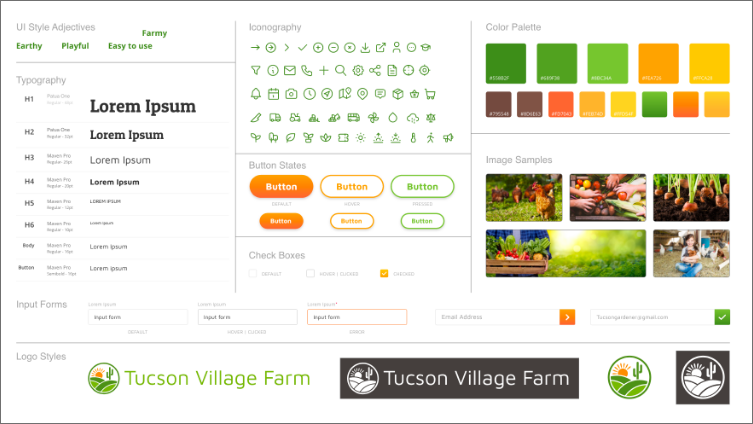
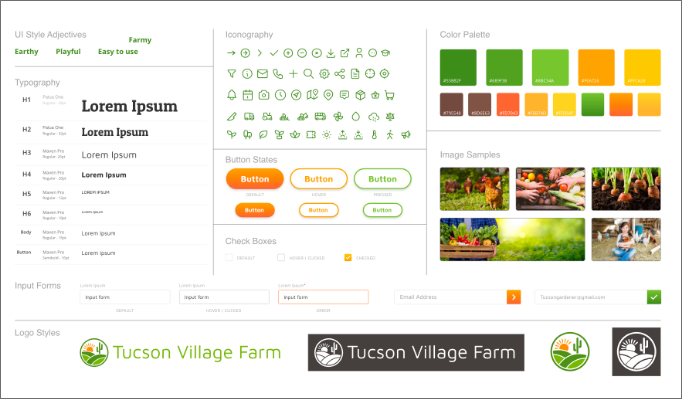
Correcting image sizes
add resume download button

diff --git a/tvf.html b/tvf.html
@@ -59,7 +59,7 @@
     <!-- Affinity Diagram -->
             <div id="persona" class="card">
                 <div class="case-study-image left">
-                    <img src="images/TVF Images_2021-01-11/affinity-map.png" alt="Affinity Diagram" />
+                    <img src="images/TVF Images_2021-01-11/affinity-map@3x.png" alt="Affinity Diagram" />
                 </div>
                 <div class="case-study-text right">
                     <h2>Affinity Diagram</h2>
@@ -72,7 +72,7 @@
     <!-- User Persona --> 
             <div id="journey" class="card">  
                 <div class="case-study-image right">
-                    <img src="images/TVF Images_2021-01-11/user-persona.png" alt="Image of User Persona" />
+                    <img src="images/TVF Images_2021-01-11/user-persona@3x.png" alt="Image of User Persona" />
                 </div>    
                 <div class="case-study-text left">
                     <h2>Persona</h2>
@@ -87,7 +87,7 @@
     <!-- Site Map -->
             <div id="card-sorting" class="card">
                 <div class="case-study-image left">
-                    <img src="images/TVF Images_2021-01-11/tvf-site-map.png" alt="Site Map Image"/>
+                    <img src="images/TVF Images_2021-01-11/tvf-site-map@3x.png" alt="Site Map Image"/>
                 </div>
                 <div class="case-study-text right">
                     <h2>Site Map</h2>
@@ -97,7 +97,7 @@
     <!-- Style Guide --> 
             <div id="wireframes" class="card">  
                 <div class="case-study-image right">
-                    <img src="images/TVF Images_2021-01-11/style-guide.png" alt="Image of Style Guide" />
+                    <img src="images/TVF Images_2021-01-11/style-guide@3x.png" alt="Image of Style Guide" />
                 </div>    
                 <div class="case-study-text left">
                     <h2>Style Guide</h2>
@@ -107,7 +107,7 @@
     <!-- Wireframes --> 
         <div id="wireframes" class="card">  
             <div class="case-study-image left">
-                <img src="images/TVF Images_2021-01-11/tvf-wireframes.png" alt="Wireframes" />
+                <img src="images/TVF Images_2021-01-11/tvf-wireframes@3x.png" alt="Wireframes" />
             </div>    
             <div class="case-study-text right">
                 <h2>Wireframes</h2>
@@ -117,7 +117,7 @@
     <!-- User Testing -->
             <div id="user-testing" class="card">
                 <div class="case-study-image right">
-                    <img src="images/TVF Images_2021-01-11/TVF-testing.png" alt="User Testing Info"/>
+                    <img src="images/TVF Images_2021-01-11/user-testing-2@3x.png" alt="User Testing Info"/>
                 </div>
                 <div class="case-study-text left">
                     <h2>User Testing</h2>
@@ -129,7 +129,7 @@
     <!-- Hi-Fi Prototype -->
             <div id="hi-fi-prototype" class="card">
                 <div class="case-study-image left">
-                    <img src="images/TVF Images_2021-01-11/tvf-prototype.png" alt="TVF Prototype Image" />
+                    <img class="icon" src="images/TVF Images_2021-01-11/tvf-prototype@3x.png" alt="TVF Prototype Image" />
                 </div>
                 <div class="case-study-text right">
                     <h2>Hi-Fi Prototype</h2>
@@ -140,7 +140,7 @@
     <!-- Conclusion --> 
             <div id="conclusion" class="card">  
                 <div class="case-study-image right">
-                    <img src="images/TVF Images_2021-01-11/tvf-logo.png" alt="Fetch Logo" />
+                    <img class="icon" src="images/TVF Images_2021-01-11/tvf-logo.png" alt="TVF Logo" />
                 </div>    
                 <div class="case-study-text left">
                     <h2>Conclusion <br />+ Next Steps</h2>

diff --git a/resume.html b/resume.html
@@ -2,13 +2,12 @@
 <html>
     <head>
         <title>Audra Miller Portfolio</title>
+        <link href="https://cdn.jsdelivr.net/npm/bootstrap@5.0.0-beta1/dist/css/bootstrap.min.css" rel="stylesheet" integrity="sha384-giJF6kkoqNQ00vy+HMDP7azOuL0xtbfIcaT9wjKHr8RbDVddVHyTfAAsrekwKmP1" crossorigin="anonymous">
         <link rel="stylesheet" href="css/style.css">
         <link rel="preconnect" href="https://fonts.gstatic.com">
         <link href="https://fonts.googleapis.com/css2?family=Montserrat&display=swap" rel="stylesheet">
-        <link rel="preconnect" href="https://fonts.gstatic.com">
         <link href="https://fonts.googleapis.com/css2?family=Montserrat:wght@700&display=swap" rel="stylesheet">
         <meta name="viewport" content="width=device-width, initial-scale=1">
-        <link rel="stylesheet" href="https://cdnjs.cloudflare.com/ajax/libs/font-awesome/4.7.0/css/font-awesome.min.css">
         <script src="index.js"></script>
     </head>
     <body>
@@ -36,6 +35,10 @@
         <section class="bodyText">
             <br /> <br />
             <div>
+                <a href="images/Audra-UI-Resume-w.pdf">
+                    <button type="button" class="btn btn-outline-primary"   onclick="document.location='usda.html'">Download Resume</button>
+                    </a>
+                <br /><br /><br />
                 <p>Seasoned graphic designer with recent exposure and 
                     training in UX/UI design from the University of Arizona. 
                     Proficient in Adobe suite of products, Figma, and Mirro. 
@@ -43,7 +46,7 @@
                     through to deliverable. Seeking a UX/UI Designer position.
                 </p>
             </div>
-            <br /><br />
+            <br /><br /><br />
 <!-- Tech Skills -->
             <div>
                 <h2>Technical Skills:</h2>

diff --git a/usda.html b/usda.html
@@ -116,9 +116,9 @@
     <!-- Hi-Fi Prototype -->
             <div id="hi-fi-prototype" class="card">
                 <div class="case-study-image right">
-                    <img src="images/USDA Images_2021-01-11/hi-fi-prototype.png" alt="USDA Prototype Image" />
+                    <img  class="icon" src="images/USDA Images_2021-01-11/hi-fi-prototype.png" alt="USDA Prototype Image" />
                 </div>
-                <div class="case-study-text leftt">
+                <div class="case-study-text left">
                     <h2>Hi-Fi Prototype</h2>
                     <button type="button" class="btn btn-outline-primary" onclick="window.location.href='https://xd.adobe.com/view/a44a522e-5728-4ac9-bf08-8003f87454b1-f119/';">Load Prototype</button>
                 </div>
@@ -127,7 +127,7 @@
     <!-- Conclusion --> 
             <div id="conclusion" class="card">  
                 <div class="case-study-image left">
-                    <img src="images/USDA Images_2021-01-11/logo.png" alt="USDA Logo" />
+                    <img  class="icon"  src="images/USDA Images_2021-01-11/logo.png" alt="USDA Logo" />
                 </div>    
                 <div class="case-study-text right">
                     <h2>Conclusion <br /> + Next Steps</h2>

diff --git a/fetch.html b/fetch.html
@@ -140,7 +140,7 @@
     <!-- Hi-Fi Prototype -->
             <div id="hi-fi-prototype" class="card">
                 <div class="case-study-image left">
-                    <img src="images/Fetch Images_2021-01-11/fetch-hi-fi-prototype.png" alt="Fetch Prototype Image" />
+                    <img  class="icon" src="images/Fetch Images_2021-01-11/fetch-hi-fi-prototype.png" alt="Fetch Prototype Image" />
                 </div>
                 <div class="case-study-text right">
                     <h2>Hi-Fi Prototype</h2>
@@ -151,7 +151,7 @@
     <!-- Conclusion --> 
             <div id="conclusion" class="card">  
                 <div class="case-study-image right">
-                    <img src="images/Fetch Images_2021-01-11/fetch-logo@3x.png" alt="Fetch Logo" />
+                    <img  class="icon" src="images/Fetch Images_2021-01-11/fetch-logo@3x.png" alt="Fetch Logo" />
                 </div>    
                 <div class="case-study-text left">
                     <h2>Conclusion <br />+ Next Steps</h2>

diff --git a/css/style.css b/css/style.css
@@ -134,8 +134,23 @@ h4 {
 }
 
 .card img {
+  /* border-color: red;
+  border-width: 1px;
+  border-style: solid; */
   width: 400px;
 }
+
+.card .icon{
+  /* border-color: red;
+  border-width: 1px;
+  border-style: solid; */
+  width: 200px;
+  vertical-align: center;
+  align-content: center;
+
+
+}
+
 .case-study-image {
   
 }
@@ -160,6 +175,8 @@ h4 {
   float:right;
   text-align: left;
 }
+
+
 
 #footer {
   display: inline-block;
